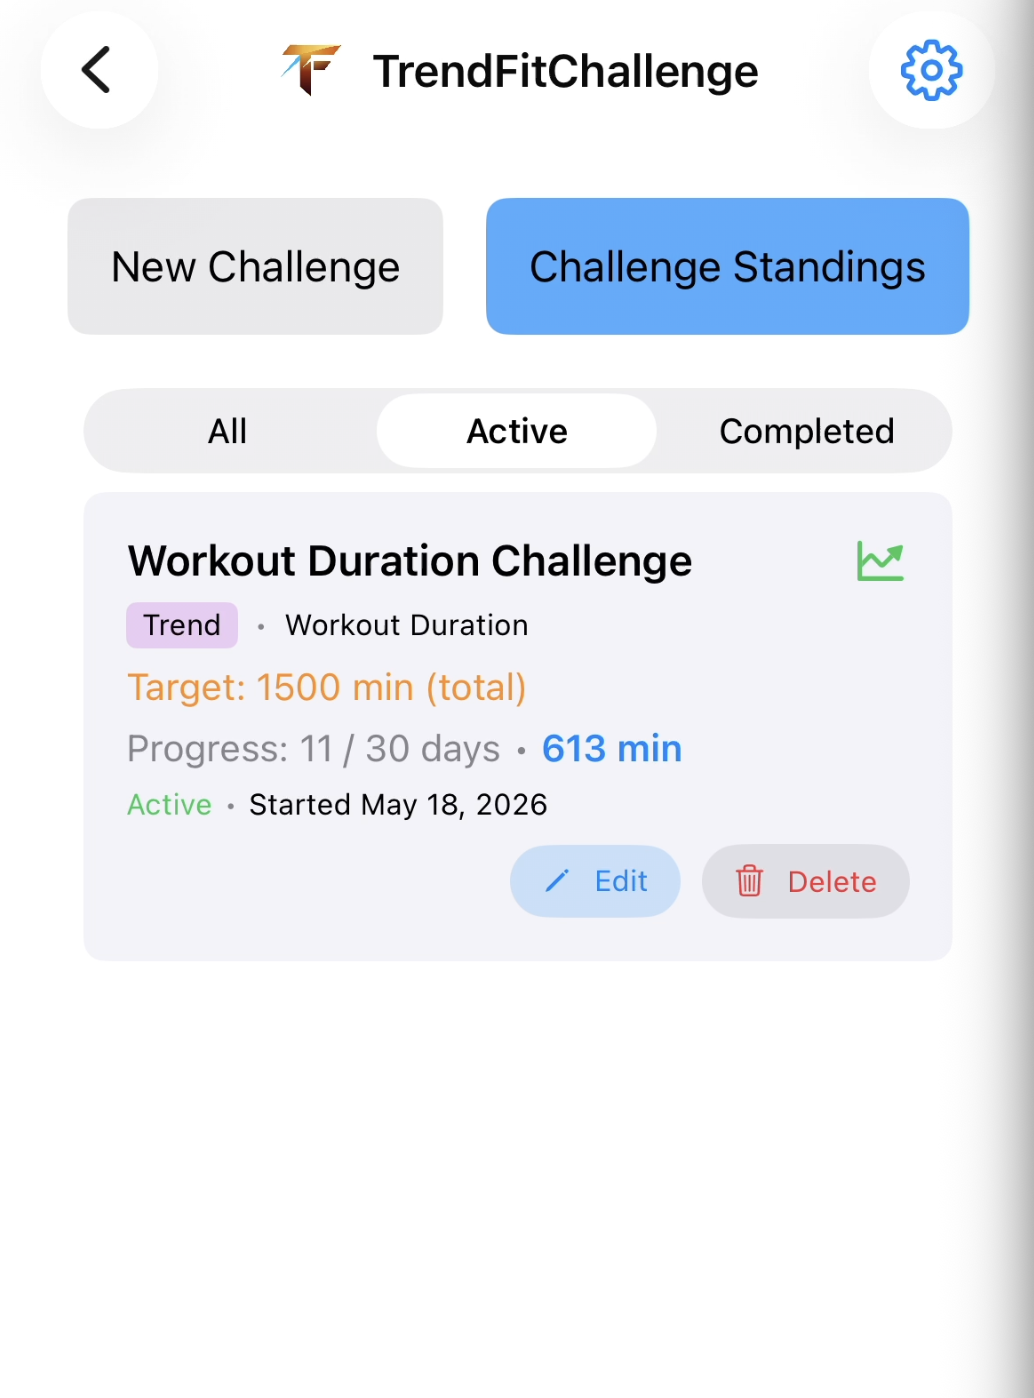
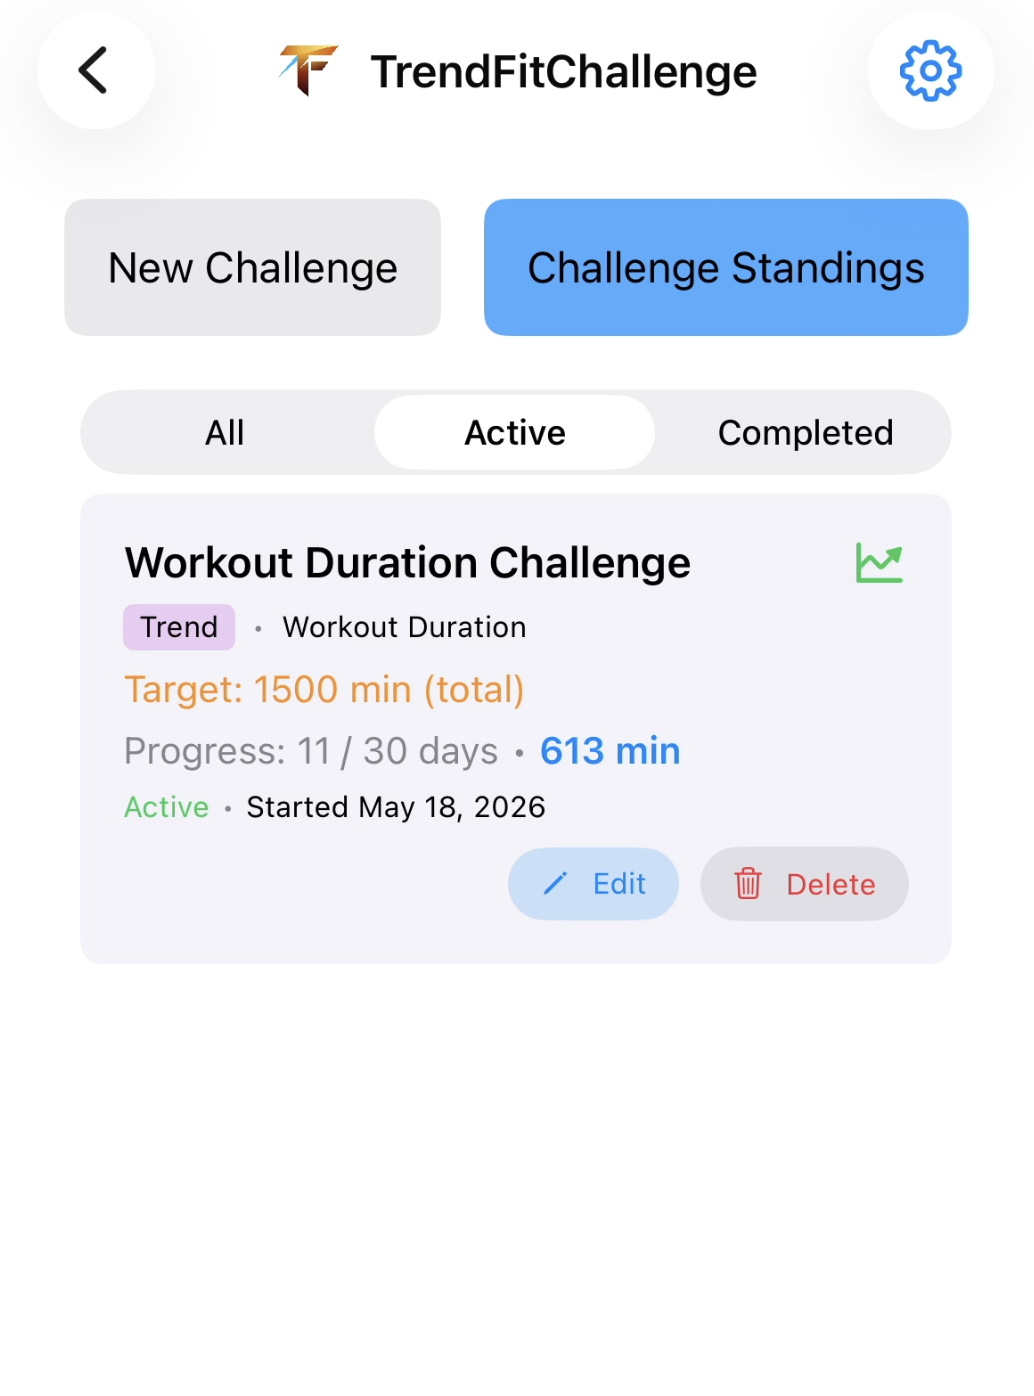
Dawn (light) mode overhaul: home tiles, FAQ amber, nav improvements
- Fix home page dawn background: warm cream gradient (#fdf5eb) replacing near-black
- Add full dawn text/tile overrides for all home tiles (headings, body,
  hero, kicker, bullets, CTA, socials, ghost button)
- Fix expand panel (Privacy First, Instant Clarity) dark background in dawn mode
- Fix sparkline SVG: CSS custom properties for baseline/dot colors so
  they render correctly in both dark and dawn modes
- Retheme FAQ from violet to amber (brand orange) throughout: background,
  card borders, nav pills, category headings, item borders, hover states
- Reorder nav pills: Announcements now leads, FAQ follows
- Add per-page accent pill borders in dawn mode to mirror dark mode behavior
  (blue/amber/emerald/indigo/red per page instead of uniform orange)
- Update TrendFitChallenge screenshot
- Bump CSS cache-buster to v=2026-05-29-17 across all pages

diff --git a/css/style.css b/css/style.css
@@ -211,9 +211,9 @@ body.home {
 }
 [data-theme="dawn"] body.home {
   background:
-    radial-gradient(ellipse 65% 50% at 10% 90%, rgba(255,140,0,.14) 0%, transparent 55%),
-    radial-gradient(ellipse 50% 40% at 90% 5%,  rgba(255,140,0,.06) 0%, transparent 50%),
-    linear-gradient(160deg, #110e0a 0%, #1a1410 55%, #110e0a 100%);
+    radial-gradient(ellipse 65% 50% at 10% 90%, rgba(255,140,0,.22) 0%, transparent 55%),
+    radial-gradient(ellipse 50% 40% at 90% 5%,  rgba(255,140,0,.10) 0%, transparent 50%),
+    linear-gradient(160deg, #fdf5eb 0%, #fffaf4 55%, #fdf5eb 100%);
 }
 
 /* Layout helpers */
@@ -1226,20 +1226,87 @@ body.home .dash-tile.reveal {
   body.home .dash-tile.reveal { animation: none; opacity: 1; }
 }
 
+/* Sparkline SVG tokens — dark defaults, overridden for dawn below */
+body.home {
+  --sparkline-base-stroke: rgba(255,255,255,.12);
+  --sparkline-dot-fill:    rgba(255,255,255,.38);
+}
+[data-theme="dawn"] body.home {
+  --sparkline-base-stroke: rgba(0,0,0,.15);
+  --sparkline-dot-fill:    rgba(0,0,0,.28);
+}
+
 /* ================================================================
-   Home v2 — Dawn (warm dark) theme overrides
+   Home v2 — Dawn (light) theme overrides
    ================================================================ */
+
+/* Tiles: warm frosted glass on cream background */
 [data-theme="dawn"] body.home .dash-tile {
-  background: rgba(255, 245, 235, 0.09);
-  border-color: rgba(255,200,136,.18);
-  box-shadow: 0 4px 24px rgba(0,0,0,.50), inset 0 1px 0 rgba(255,200,136,.10);
+  background: rgba(255,255,255,.72);
+  backdrop-filter: blur(20px) saturate(1.2);
+  -webkit-backdrop-filter: blur(20px) saturate(1.2);
+  border-color: rgba(255,140,0,.22);
+  box-shadow: 0 2px 16px rgba(0,0,0,.06), inset 0 1px 0 rgba(255,255,255,.95);
 }
 [data-theme="dawn"] body.home .dash-tile:hover {
-  box-shadow: 0 18px 52px rgba(0,0,0,.55), 0 0 0 1px rgba(255,140,0,.30), inset 0 1px 0 rgba(255,200,136,.12);
+  box-shadow: 0 8px 32px rgba(0,0,0,.10), 0 0 0 1px rgba(255,140,0,.30), inset 0 1px 0 rgba(255,255,255,.95);
 }
+
+/* Hero tile */
 [data-theme="dawn"] body.home .tile-hero {
-  background: rgba(255,140,0,.10);
+  background: rgba(255,140,0,.08);
   border-color: rgba(255,140,0,.28);
+}
+
+/* Promo tile */
+[data-theme="dawn"] body.home .tile-promo {
+  background: rgba(255,255,255,.55);
+  border-color: rgba(255,140,0,.22);
+  box-shadow: 0 4px 24px rgba(0,0,0,.06), inset 0 1px 0 rgba(255,255,255,.90);
+}
+
+/* Text: headings + body throughout all home tiles */
+[data-theme="dawn"] body.home .dash-tile .feat-title,
+[data-theme="dawn"] body.home .dash-tile h1,
+[data-theme="dawn"] body.home .dash-tile h2 {
+  color: var(--text-ink);
+}
+[data-theme="dawn"] body.home .dash-tile .feat-copy,
+[data-theme="dawn"] body.home .dash-tile p,
+[data-theme="dawn"] body.home .dash-tile li {
+  color: var(--text-muted);
+}
+
+/* Hero tile text */
+[data-theme="dawn"] body.home .tile-hero .hero-title { color: var(--text-ink); }
+[data-theme="dawn"] body.home .tile-hero .hero-kicker {
+  color: var(--text-muted);
+  text-shadow: none;
+}
+[data-theme="dawn"] body.home .tile-hero .hero-bullets { color: var(--text-muted); }
+
+/* Expand panel background + text */
+[data-theme="dawn"] body.home .tile-expand {
+  background: rgba(255,255,255,.92);
+  backdrop-filter: blur(16px) saturate(1.2);
+  -webkit-backdrop-filter: blur(16px) saturate(1.2);
+}
+[data-theme="dawn"] body.home .tile-expand .expand-intro { color: var(--text-ink); }
+[data-theme="dawn"] body.home .tile-expand .expand-bullets li { color: var(--text-muted); }
+[data-theme="dawn"] body.home .tile-expand .expand-bullets li strong { color: var(--text-ink); }
+
+/* CTA / Socials tile */
+[data-theme="dawn"] body.home .tile-cta-social .cta-tagline { color: var(--text-muted); }
+[data-theme="dawn"] body.home .tile-cta-social .social-links a { color: var(--text-muted); }
+[data-theme="dawn"] body.home .tile-cta-social .social-links a:hover { color: var(--text-ink); }
+[data-theme="dawn"] body.home .tile-cta-social .footer { color: var(--text-muted); }
+[data-theme="dawn"] body.home .tile-cta-social .btn-ghost {
+  border-color: var(--border-default);
+  color: var(--text-ink);
+}
+[data-theme="dawn"] body.home .tile-cta-social .btn-ghost:hover {
+  background: rgba(0,0,0,.06);
+  color: var(--text-ink);
 }
 
 /* Announcements page styles */
@@ -1362,17 +1429,17 @@ body.page-announcements {
     linear-gradient(160deg, #eef5fb 0%, #e4f0f8 55%, #eef5fb 100%);
 }
 
-/* --- FAQ — violet --- */
+/* --- FAQ — amber --- */
 body.page-faq {
   background:
-    radial-gradient(ellipse 65% 45% at 85% 12%, rgba(139,92,246,.16) 0%, transparent 55%),
-    radial-gradient(ellipse 50% 40% at 10% 80%, rgba(45,186,247,.08) 0%, transparent 50%),
-    linear-gradient(160deg, #08060f 0%, #10091e 55%, #08060f 100%);
+    radial-gradient(ellipse 65% 45% at 85% 12%, rgba(255,140,0,.16) 0%, transparent 55%),
+    radial-gradient(ellipse 50% 40% at 10% 80%, rgba(255,140,0,.06) 0%, transparent 50%),
+    linear-gradient(160deg, #0f0a04 0%, #170f06 55%, #0f0a04 100%);
 }
 [data-theme="dawn"] body.page-faq {
   background:
-    radial-gradient(ellipse 65% 45% at 85% 12%, rgba(139,92,246,.12) 0%, transparent 55%),
-    linear-gradient(160deg, #f4f2fb 0%, #ece7f8 55%, #f4f2fb 100%);
+    radial-gradient(ellipse 65% 45% at 85% 12%, rgba(255,140,0,.16) 0%, transparent 55%),
+    linear-gradient(160deg, #fdf5eb 0%, #fef0d9 55%, #fdf5eb 100%);
 }
 
 /* --- Privacy — emerald --- */
@@ -1431,7 +1498,7 @@ body.page-404 .oops .container {
 
 /* --- Per-page accent border overrides --- */
 body.page-announcements .card     { border-color: rgba(45,186,247,.20); }
-body.page-faq .faq-category       { border-color: rgba(139,92,246,.22); }
+body.page-faq .faq-category       { border-color: rgba(255,140,0,.22); }
 body.page-privacy .policy-section { border-color: rgba(16,185,129,.22); }
 body.page-terms .policy-section   { border-color: rgba(99,102,241,.22); }
 body.page-404 .oops .container    { border-color: rgba(239,68,68,.22); }
@@ -1458,17 +1525,17 @@ body.page-announcements .card.announce .meta { color: rgba(255,255,255,.45); }
 body.page-privacy .policy-meta,
 body.page-terms .policy-meta { color: rgba(255,255,255,.40); }
 
-/* --- FAQ: violet accent for headings and toggle markers --- */
-body.page-faq .faq-category-heading { color: rgba(139,92,246,.95); }
+/* --- FAQ: amber accent for headings and toggle markers --- */
+body.page-faq .faq-category-heading { color: rgba(255,140,0,.95); }
 body.page-faq .faq-question { color: rgba(255,255,255,.90); }
-body.page-faq .faq-question::after { color: rgba(139,92,246,.90); }
+body.page-faq .faq-question::after { color: rgba(255,140,0,.90); }
 
 /* --- FAQ items: translucent surface inside glass category card --- */
 body.page-faq .faq-item {
   background: rgba(255,255,255,.04);
-  border-color: rgba(139,92,246,.18);
+  border-color: rgba(255,140,0,.18);
 }
-body.page-faq .faq-item[open] { border-color: rgba(139,92,246,.35); }
+body.page-faq .faq-item[open] { border-color: rgba(255,140,0,.35); }
 
 /* --- Policy pages: suppress outer .card wrapper — sections are the glass units --- */
 body.page-privacy .card,
@@ -1486,7 +1553,7 @@ body.page-announcements .card {
 }
 body.page-faq .faq-item:hover {
   transform: translateY(-2px);
-  box-shadow: 0 8px 32px rgba(0,0,0,.45), 0 0 0 1px rgba(139,92,246,.30);
+  box-shadow: 0 8px 32px rgba(0,0,0,.45), 0 0 0 1px rgba(255,140,0,.30);
 }
 body.page-announcements .card:hover {
   transform: translateY(-3px);
@@ -1545,7 +1612,7 @@ body.page-404 .site-header .nav-links a {
 
 /* Per-page accent pill border */
 body.page-announcements .site-header .nav-links a { border-color: rgba(45,186,247,.28); }
-body.page-faq           .site-header .nav-links a { border-color: rgba(139,92,246,.28); }
+body.page-faq           .site-header .nav-links a { border-color: rgba(255,140,0,.28); }
 body.page-privacy       .site-header .nav-links a { border-color: rgba(16,185,129,.28); }
 body.page-terms         .site-header .nav-links a { border-color: rgba(99,102,241,.28); }
 body.page-404           .site-header .nav-links a { border-color: rgba(239,68,68,.28); }
@@ -1559,7 +1626,7 @@ body.page-announcements .site-header .nav-links a[aria-current="page"] {
 body.page-faq .site-header .nav-links a:hover,
 body.page-faq .site-header .nav-links a:focus-visible,
 body.page-faq .site-header .nav-links a[aria-current="page"] {
-  background: rgba(139,92,246,.12); border-color: rgba(139,92,246,.55); color: #fff;
+  background: rgba(255,140,0,.12); border-color: rgba(255,140,0,.55); color: #fff;
 }
 body.page-privacy .site-header .nav-links a:hover,
 body.page-privacy .site-header .nav-links a:focus-visible,
@@ -1642,7 +1709,7 @@ body.page-404 .site-footer a:hover {
 }
 /* Per-page accent borders, suited to light surface */
 [data-theme="dawn"] body.page-announcements .card     { border-color: rgba(45,186,247,.35); }
-[data-theme="dawn"] body.page-faq .faq-category       { border-color: rgba(139,92,246,.28); }
+[data-theme="dawn"] body.page-faq .faq-category       { border-color: rgba(255,140,0,.28); }
 [data-theme="dawn"] body.page-privacy .policy-section { border-color: rgba(16,185,129,.28); }
 [data-theme="dawn"] body.page-terms .policy-section   { border-color: rgba(99,102,241,.28); }
 [data-theme="dawn"] body.page-404 .oops .container    { border-color: rgba(239,68,68,.28); }
@@ -1677,14 +1744,14 @@ body.page-404 .site-footer a:hover {
 [data-theme="dawn"] body.page-terms .policy-meta { color: var(--text-muted); }
 
 /* --- FAQ: page-accent colors work on light bg --- */
-[data-theme="dawn"] body.page-faq .faq-category-heading { color: rgba(109,62,216,.90); }
+[data-theme="dawn"] body.page-faq .faq-category-heading { color: rgba(200,100,0,.95); }
 [data-theme="dawn"] body.page-faq .faq-question { color: var(--text-ink); }
-[data-theme="dawn"] body.page-faq .faq-question::after { color: rgba(109,62,216,.80); }
+[data-theme="dawn"] body.page-faq .faq-question::after { color: rgba(200,100,0,.85); }
 [data-theme="dawn"] body.page-faq .faq-item {
   background: rgba(255,255,255,.55);
-  border-color: rgba(139,92,246,.20);
+  border-color: rgba(255,140,0,.20);
 }
-[data-theme="dawn"] body.page-faq .faq-item[open] { border-color: rgba(139,92,246,.40); }
+[data-theme="dawn"] body.page-faq .faq-item[open] { border-color: rgba(255,140,0,.40); }
 
 /* --- Header: revert to light glass + orange-pastel pills --- */
 [data-theme="dawn"] body.page-announcements .site-header,
@@ -1706,33 +1773,45 @@ body.page-404 .site-footer a:hover {
 [data-theme="dawn"] body.page-privacy .site-header .nav-links a,
 [data-theme="dawn"] body.page-terms .site-header .nav-links a,
 [data-theme="dawn"] body.page-404 .site-header .nav-links a { color: var(--text-ink); }
-/* Orange-pastel pills (the original design, now correct on light header) */
+/* Light glass pill base — warm surface for all non-home pages */
 [data-theme="dawn"] body.page-announcements .site-header .nav-links a,
 [data-theme="dawn"] body.page-faq .site-header .nav-links a,
 [data-theme="dawn"] body.page-privacy .site-header .nav-links a,
 [data-theme="dawn"] body.page-terms .site-header .nav-links a,
 [data-theme="dawn"] body.page-404 .site-header .nav-links a {
   background: var(--surface-warm);
-  border-color: var(--border-accent);
 }
+/* Per-page accent borders (mirrors dark mode) */
+[data-theme="dawn"] body.page-announcements .site-header .nav-links a { border-color: rgba(45,186,247,.45); }
+[data-theme="dawn"] body.page-faq           .site-header .nav-links a { border-color: rgba(255,140,0,.45); }
+[data-theme="dawn"] body.page-privacy       .site-header .nav-links a { border-color: rgba(16,185,129,.45); }
+[data-theme="dawn"] body.page-terms         .site-header .nav-links a { border-color: rgba(99,102,241,.45); }
+[data-theme="dawn"] body.page-404           .site-header .nav-links a { border-color: rgba(239,68,68,.45); }
+/* Per-page hover + active */
 [data-theme="dawn"] body.page-announcements .site-header .nav-links a:hover,
 [data-theme="dawn"] body.page-announcements .site-header .nav-links a:focus-visible,
-[data-theme="dawn"] body.page-announcements .site-header .nav-links a[aria-current="page"],
+[data-theme="dawn"] body.page-announcements .site-header .nav-links a[aria-current="page"] {
+  background: rgba(45,186,247,.12); border-color: rgba(45,186,247,.60); color: var(--text-ink);
+}
 [data-theme="dawn"] body.page-faq .site-header .nav-links a:hover,
 [data-theme="dawn"] body.page-faq .site-header .nav-links a:focus-visible,
-[data-theme="dawn"] body.page-faq .site-header .nav-links a[aria-current="page"],
+[data-theme="dawn"] body.page-faq .site-header .nav-links a[aria-current="page"] {
+  background: rgba(255,140,0,.12); border-color: rgba(255,140,0,.60); color: var(--text-ink);
+}
 [data-theme="dawn"] body.page-privacy .site-header .nav-links a:hover,
 [data-theme="dawn"] body.page-privacy .site-header .nav-links a:focus-visible,
-[data-theme="dawn"] body.page-privacy .site-header .nav-links a[aria-current="page"],
+[data-theme="dawn"] body.page-privacy .site-header .nav-links a[aria-current="page"] {
+  background: rgba(16,185,129,.12); border-color: rgba(16,185,129,.60); color: var(--text-ink);
+}
 [data-theme="dawn"] body.page-terms .site-header .nav-links a:hover,
 [data-theme="dawn"] body.page-terms .site-header .nav-links a:focus-visible,
-[data-theme="dawn"] body.page-terms .site-header .nav-links a[aria-current="page"],
+[data-theme="dawn"] body.page-terms .site-header .nav-links a[aria-current="page"] {
+  background: rgba(99,102,241,.12); border-color: rgba(99,102,241,.60); color: var(--text-ink);
+}
 [data-theme="dawn"] body.page-404 .site-header .nav-links a:hover,
 [data-theme="dawn"] body.page-404 .site-header .nav-links a:focus-visible,
 [data-theme="dawn"] body.page-404 .site-header .nav-links a[aria-current="page"] {
-  background: var(--surface-warm-hover);
-  border-color: var(--border-accent-hover);
-  color: var(--text-ink);
+  background: rgba(239,68,68,.12); border-color: rgba(239,68,68,.60); color: var(--text-ink);
 }
 /* Theme toggle: orange-pastel */
 [data-theme="dawn"] body.page-announcements .theme-toggle,

diff --git a/index.html b/index.html
@@ -112,7 +112,7 @@
   <link rel="dns-prefetch" href="https://apps.apple.com">
   <link rel="stylesheet" href="https://cdnjs.cloudflare.com/ajax/libs/font-awesome/6.5.0/css/all.min.css" />
   <script>(function(){var p=localStorage.getItem('theme:preference');if(p==='dawn'||p==='dark')document.documentElement.setAttribute('data-theme',p);})();</script>
-  <link rel="stylesheet" href="css/style.css?v=2026-05-29-11" />
+  <link rel="stylesheet" href="css/style.css?v=2026-05-29-17" />
 
   <script defer src="js/includes.js"></script>
 
@@ -250,17 +250,17 @@
                  style="width:100px;height:auto;display:block;">
               <!-- Baseline -->
               <line x1="6" y1="46" x2="104" y2="46" stroke-width="1"
-                    style="stroke:rgba(255,255,255,.12)"/>
+                    style="stroke:var(--sparkline-base-stroke)"/>
               <!-- Trend line -->
               <line x1="6" y1="44" x2="100" y2="11" stroke-width="2.5" stroke-linecap="round"
                     style="stroke:var(--accent-brand1);opacity:0.65"/>
               <!-- Data scatter -->
-              <circle cx="10" cy="43" r="2.5" style="fill:rgba(255,255,255,.38)"/>
-              <circle cx="25" cy="37" r="2.5" style="fill:rgba(255,255,255,.38)"/>
-              <circle cx="40" cy="30" r="2.5" style="fill:rgba(255,255,255,.38)"/>
-              <circle cx="55" cy="34" r="2.5" style="fill:rgba(255,255,255,.38)"/>
-              <circle cx="70" cy="22" r="2.5" style="fill:rgba(255,255,255,.38)"/>
-              <circle cx="84" cy="17" r="2.5" style="fill:rgba(255,255,255,.38)"/>
+              <circle cx="10" cy="43" r="2.5" style="fill:var(--sparkline-dot-fill)"/>
+              <circle cx="25" cy="37" r="2.5" style="fill:var(--sparkline-dot-fill)"/>
+              <circle cx="40" cy="30" r="2.5" style="fill:var(--sparkline-dot-fill)"/>
+              <circle cx="55" cy="34" r="2.5" style="fill:var(--sparkline-dot-fill)"/>
+              <circle cx="70" cy="22" r="2.5" style="fill:var(--sparkline-dot-fill)"/>
+              <circle cx="84" cy="17" r="2.5" style="fill:var(--sparkline-dot-fill)"/>
               <!-- Current position: bullseye -->
               <circle cx="100" cy="11" r="6.5" style="fill:var(--accent-brand1);opacity:0.25"/>
               <circle cx="100" cy="11" r="4" style="fill:var(--accent-brand1)"/>

diff --git a/privacy.html b/privacy.html
@@ -31,7 +31,7 @@
   <link rel="preconnect" href="https://cdnjs.cloudflare.com">
   <link rel="stylesheet" href="https://cdnjs.cloudflare.com/ajax/libs/font-awesome/6.5.0/css/all.min.css" />
   <script>(function(){var p=localStorage.getItem('theme:preference');if(p==='dawn'||p==='dark')document.documentElement.setAttribute('data-theme',p);})();</script>
-  <link rel="stylesheet" href="css/style.css?v=2026-05-28-7" />
+  <link rel="stylesheet" href="css/style.css?v=2026-05-29-17" />
 
   <!-- Scripts -->
   <script defer src="js/includes.js"></script>  <!-- needed to render shared header -->

diff --git a/announcements.html b/announcements.html
@@ -39,7 +39,7 @@
   <link rel="preconnect" href="https://cdnjs.cloudflare.com">
   <link rel="stylesheet" href="https://cdnjs.cloudflare.com/ajax/libs/font-awesome/6.5.0/css/all.min.css" />
   <script>(function(){var p=localStorage.getItem('theme:preference');if(p==='dawn'||p==='dark')document.documentElement.setAttribute('data-theme',p);})();</script>
-  <link rel="stylesheet" href="css/style.css?v=2026-05-28-7" />
+  <link rel="stylesheet" href="css/style.css?v=2026-05-29-17" />
 
   <!-- Shared include (header/footer, etc.) -->
   <script defer src="js/includes.js"></script>

diff --git a/faq.html b/faq.html
@@ -31,7 +31,7 @@
   <link rel="preconnect" href="https://cdnjs.cloudflare.com">
   <link rel="stylesheet" href="https://cdnjs.cloudflare.com/ajax/libs/font-awesome/6.5.0/css/all.min.css" />
   <script>(function(){var p=localStorage.getItem('theme:preference');if(p==='dawn'||p==='dark')document.documentElement.setAttribute('data-theme',p);})();</script>
-  <link rel="stylesheet" href="css/style.css?v=2026-05-28-7" />
+  <link rel="stylesheet" href="css/style.css?v=2026-05-29-17" />
 
   <!-- Scripts -->
   <script defer src="js/includes.js"></script>

diff --git a/404.html b/404.html
@@ -13,7 +13,7 @@
   <link rel="preconnect" href="https://cdnjs.cloudflare.com">
   <link rel="stylesheet" href="https://cdnjs.cloudflare.com/ajax/libs/font-awesome/6.5.0/css/all.min.css" />
   <script>(function(){var p=localStorage.getItem('theme:preference');if(p==='dawn'||p==='dark')document.documentElement.setAttribute('data-theme',p);})();</script>
-  <link rel="stylesheet" href="css/style.css?v=2026-05-28-7" />
+  <link rel="stylesheet" href="css/style.css?v=2026-05-29-17" />
 
   <script defer src="js/includes.js"></script>
 </head>

diff --git a/terms.html b/terms.html
@@ -30,7 +30,7 @@
   <link rel="preconnect" href="https://cdnjs.cloudflare.com">
   <link rel="stylesheet" href="https://cdnjs.cloudflare.com/ajax/libs/font-awesome/6.5.0/css/all.min.css" />
   <script>(function(){var p=localStorage.getItem('theme:preference');if(p==='dawn'||p==='dark')document.documentElement.setAttribute('data-theme',p);})();</script>
-  <link rel="stylesheet" href="css/style.css?v=2026-05-28-7" />
+  <link rel="stylesheet" href="css/style.css?v=2026-05-29-17" />
 
 <script defer src="js/includes.js"></script>
 

diff --git a/partials/header.html b/partials/header.html
@@ -9,8 +9,8 @@
       <span>TrendFit</span>
     </a>
     <nav class="nav-links">
-      <a href="faq.html">FAQ</a>
       <a href="announcements.html">Announcements</a>
+      <a href="faq.html">FAQ</a>
       <a href="privacy.html">Privacy</a>
       <a href="terms.html">Terms</a>
     </nav>
